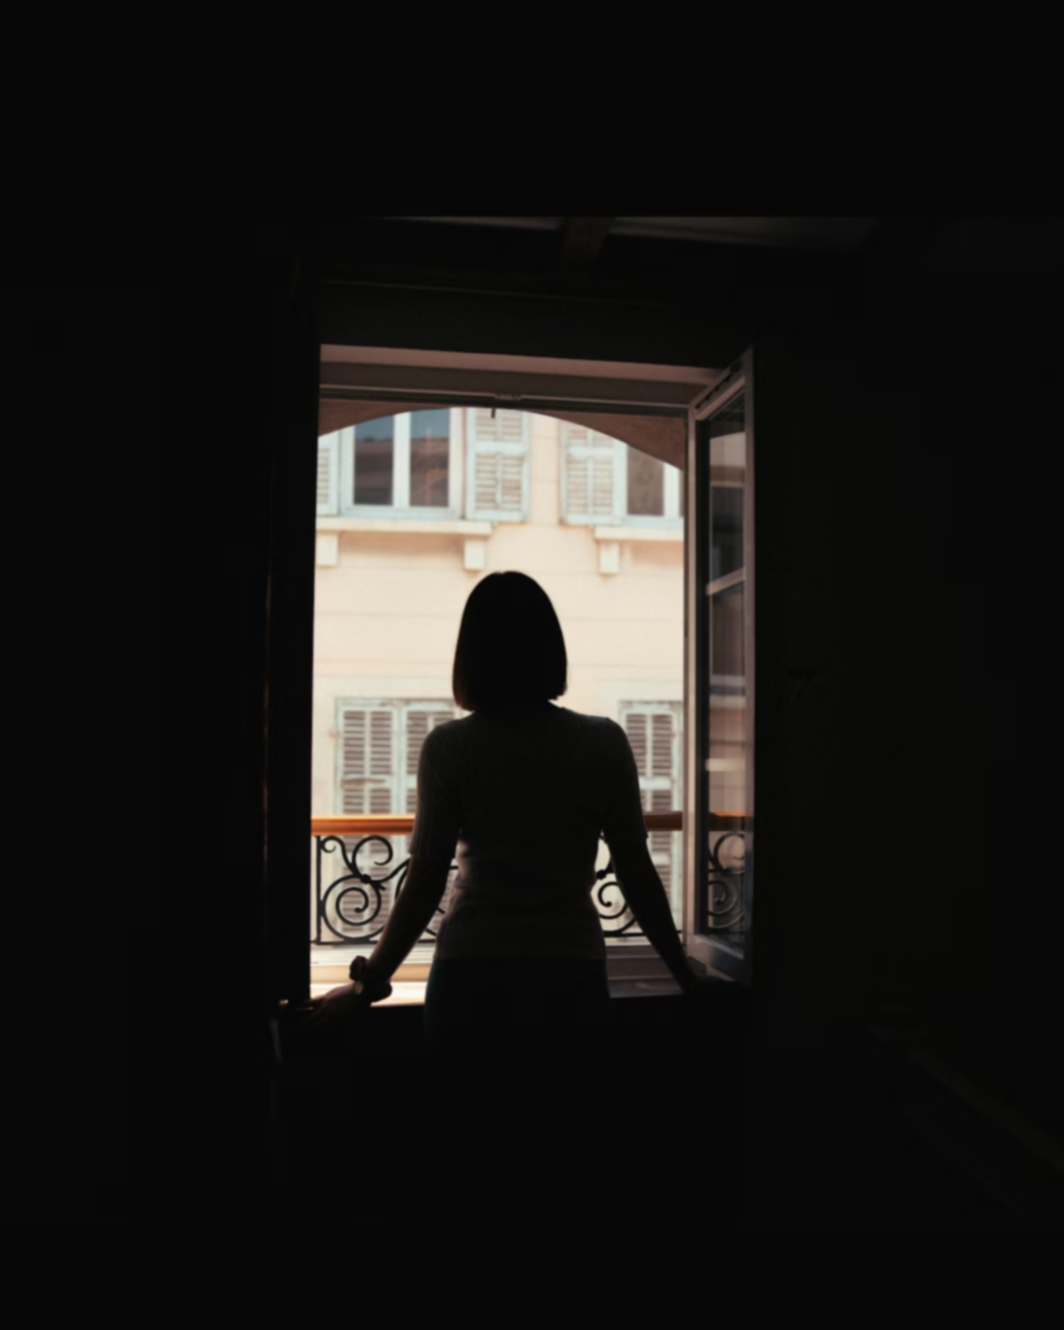
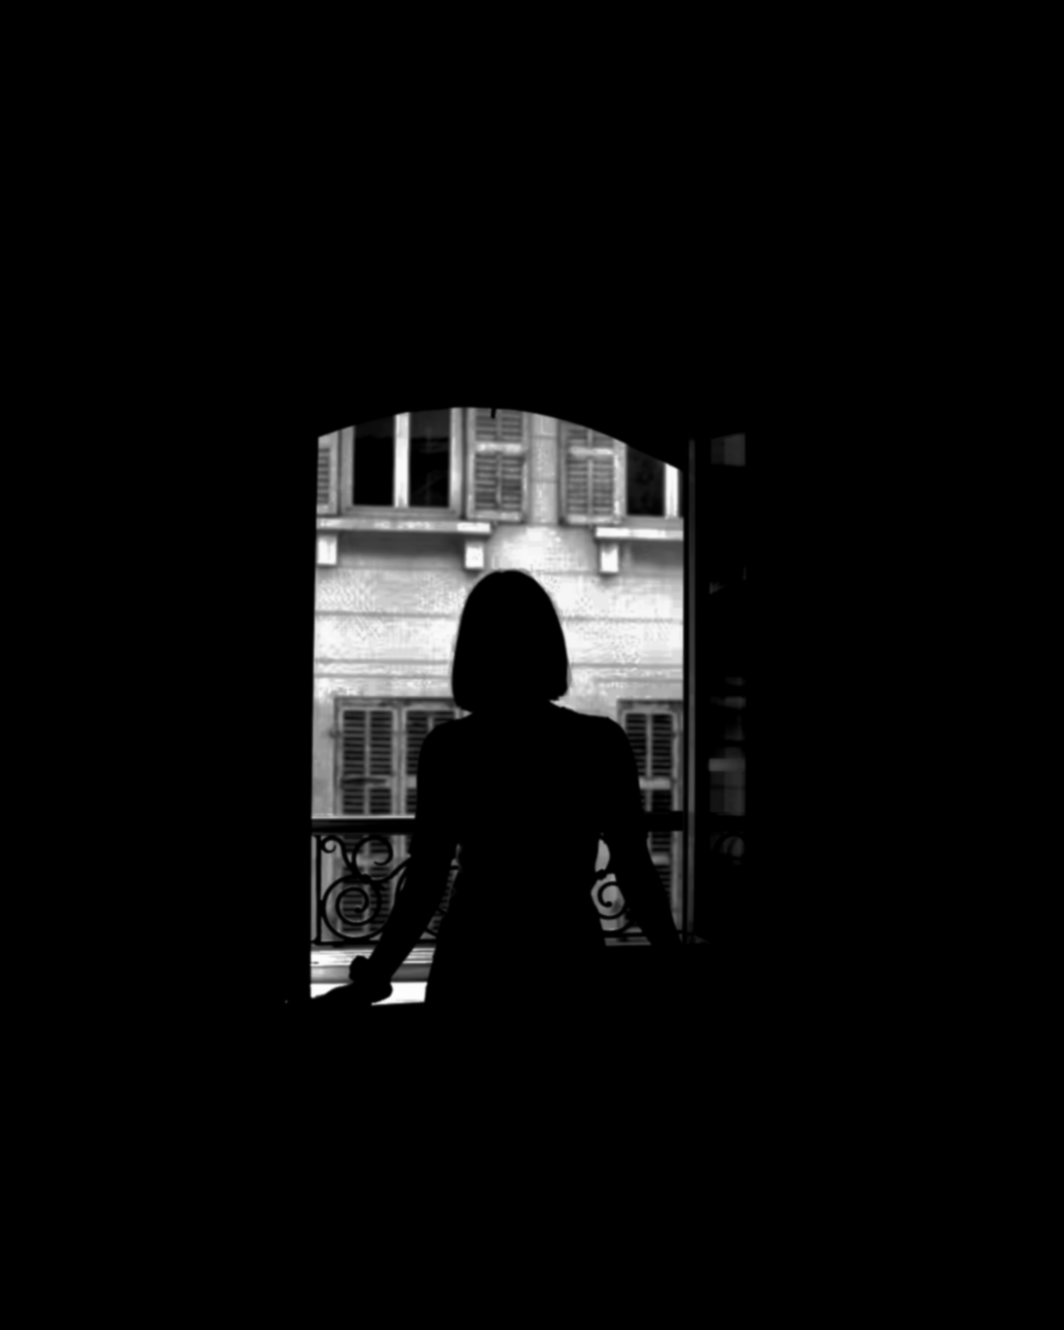
Update question 4 to include grayscale conversion, Otsu mask, foreground equalization, and neighborhood filtering

Changed region(s): [[0.2791, 0.2466, 0.7133, 0.7707], [0.5583, 0.1541, 0.7133, 0.185], [0.4032, 0.1541, 0.5273, 0.185]]

diff --git a/question4.py b/question4.py
@@ -3,42 +3,56 @@ import numpy as np
 from PIL import Image
 from scipy import ndimage
 
-def load_image(path: Path) -> np.ndarray:
-    image = Image.open(path)
-    return np.asarray(image, dtype=np.float32) / 255.0
+def load_image_gray(path: Path) -> np.ndarray:
+    image = Image.open(path).convert("L")
+    return np.asarray(image, dtype=np.uint8)
 
 def save_image(image: np.ndarray, path: Path) -> None:
-    image_uint8 = np.clip(image * 255.0, 0, 255).astype(np.uint8)
-    Image.fromarray(image_uint8).save(path)
+    if image.ndim == 2:
+        Image.fromarray(image.astype(np.uint8), mode="L").save(path)
+    else:
+        Image.fromarray(image.astype(np.uint8)).save(path)
+
+def otsu_threshold(image: np.ndarray) -> int:
+    hist = np.histogram(image.flatten(), bins=256, range=(0, 256))[0]
+    total_pixels = image.size
+    current_max, threshold = 0, 0
+    sumT = np.sum(np.arange(256) * hist)
+    sumB = 0
+    wB = 0
+    for i in range(256):
+        wB += hist[i]
+        if wB == 0:
+            continue
+        wF = total_pixels - wB
+        if wF == 0:
+            break
+        sumB += i * hist[i]
+        mB = sumB / wB
+        mF = (sumT - sumB) / wF
+        between = wB * wF * (mB - mF) ** 2
+        if between > current_max:
+            current_max = between
+            threshold = i
+    return threshold
+
+def foreground_equalization(image: np.ndarray, mask: np.ndarray) -> np.ndarray:
+    foreground_pixels = image[mask]
+    hist, bins = np.histogram(foreground_pixels, bins=256, range=(0, 256))
+    cdf = hist.cumsum()
+    cdf_normalized = cdf / cdf[-1]
+    equalized = np.interp(image.flatten(), bins[:-1], cdf_normalized * 255)
+    return equalized.astype(np.uint8).reshape(image.shape)
 
 def mean_filter(image: np.ndarray, size: int) -> np.ndarray:
-    if image.ndim == 2:
-        kernel = np.ones((size, size)) / (size * size)
-        return ndimage.convolve(image, kernel, mode='nearest')
-    else:  # multichannel
-        filtered = np.zeros_like(image)
-        for c in range(image.shape[2]):
-            kernel = np.ones((size, size)) / (size * size)
-            filtered[:, :, c] = ndimage.convolve(image[:, :, c], kernel, mode='nearest')
-        return filtered
+    kernel = np.ones((size, size)) / (size * size)
+    return ndimage.convolve(image, kernel, mode='nearest')
 
 def median_filter(image: np.ndarray, size: int) -> np.ndarray:
-    if image.ndim == 2:
-        return ndimage.median_filter(image, size=size, mode='nearest')
-    else:
-        filtered = np.zeros_like(image)
-        for c in range(image.shape[2]):
-            filtered[:, :, c] = ndimage.median_filter(image[:, :, c], size=size, mode='nearest')
-        return filtered
+    return ndimage.median_filter(image, size=size, mode='nearest')
 
 def gaussian_filter(image: np.ndarray, sigma: float) -> np.ndarray:
-    if image.ndim == 2:
-        return ndimage.gaussian_filter(image, sigma=sigma, mode='nearest')
-    else:
-        filtered = np.zeros_like(image)
-        for c in range(image.shape[2]):
-            filtered[:, :, c] = ndimage.gaussian_filter(image[:, :, c], sigma=sigma, mode='nearest')
-        return filtered
+    return ndimage.gaussian_filter(image, sigma=sigma, mode='nearest')
 
 def main() -> None:
     root = Path(__file__).resolve().parent
@@ -46,21 +60,38 @@ def main() -> None:
     if not input_path.exists():
         raise FileNotFoundError(f"Cannot find image at {input_path}")
 
-    image = load_image(input_path)
+    # Load and convert to grayscale
+    image_gray = load_image_gray(input_path)
+    save_image(image_gray, root / "woman_grayscale.png")
+
+    # Apply Otsu thresholding
+    threshold = otsu_threshold(image_gray)
+    mask = (image_gray >= threshold).astype(np.uint8) * 255
+    save_image(mask, root / "woman_otsu_mask.png")
+
+    # Foreground equalization
+    equalized = foreground_equalization(image_gray, mask > 0)
+    save_image(equalized, root / "woman_foreground_equalized.png")
+
+    # Convert to float for filtering
+    equalized_float = equalized.astype(np.float32) / 255.0
 
     # Apply mean filter with 3x3 kernel
-    mean_filtered = mean_filter(image, 3)
-    save_image(mean_filtered, root / "woman_mean_filter_3x3.png")
+    mean_filtered = mean_filter(equalized_float, 3)
+    save_image((mean_filtered * 255).astype(np.uint8), root / "woman_mean_filter_3x3.png")
 
     # Apply median filter with 3x3 kernel
-    median_filtered = median_filter(image, 3)
-    save_image(median_filtered, root / "woman_median_filter_3x3.png")
+    median_filtered = median_filter(equalized_float, 3)
+    save_image((median_filtered * 255).astype(np.uint8), root / "woman_median_filter_3x3.png")
 
     # Apply Gaussian filter with sigma=1.0
-    gaussian_filtered = gaussian_filter(image, 1.0)
-    save_image(gaussian_filtered, root / "woman_gaussian_filter_sigma1.png")
+    gaussian_filtered = gaussian_filter(equalized_float, 1.0)
+    save_image((gaussian_filtered * 255).astype(np.uint8), root / "woman_gaussian_filter_sigma1.png")
 
     print("Saved:")
+    print(" - woman_grayscale.png")
+    print(" - woman_otsu_mask.png")
+    print(" - woman_foreground_equalized.png")
     print(" - woman_mean_filter_3x3.png")
     print(" - woman_median_filter_3x3.png")
     print(" - woman_gaussian_filter_sigma1.png")
